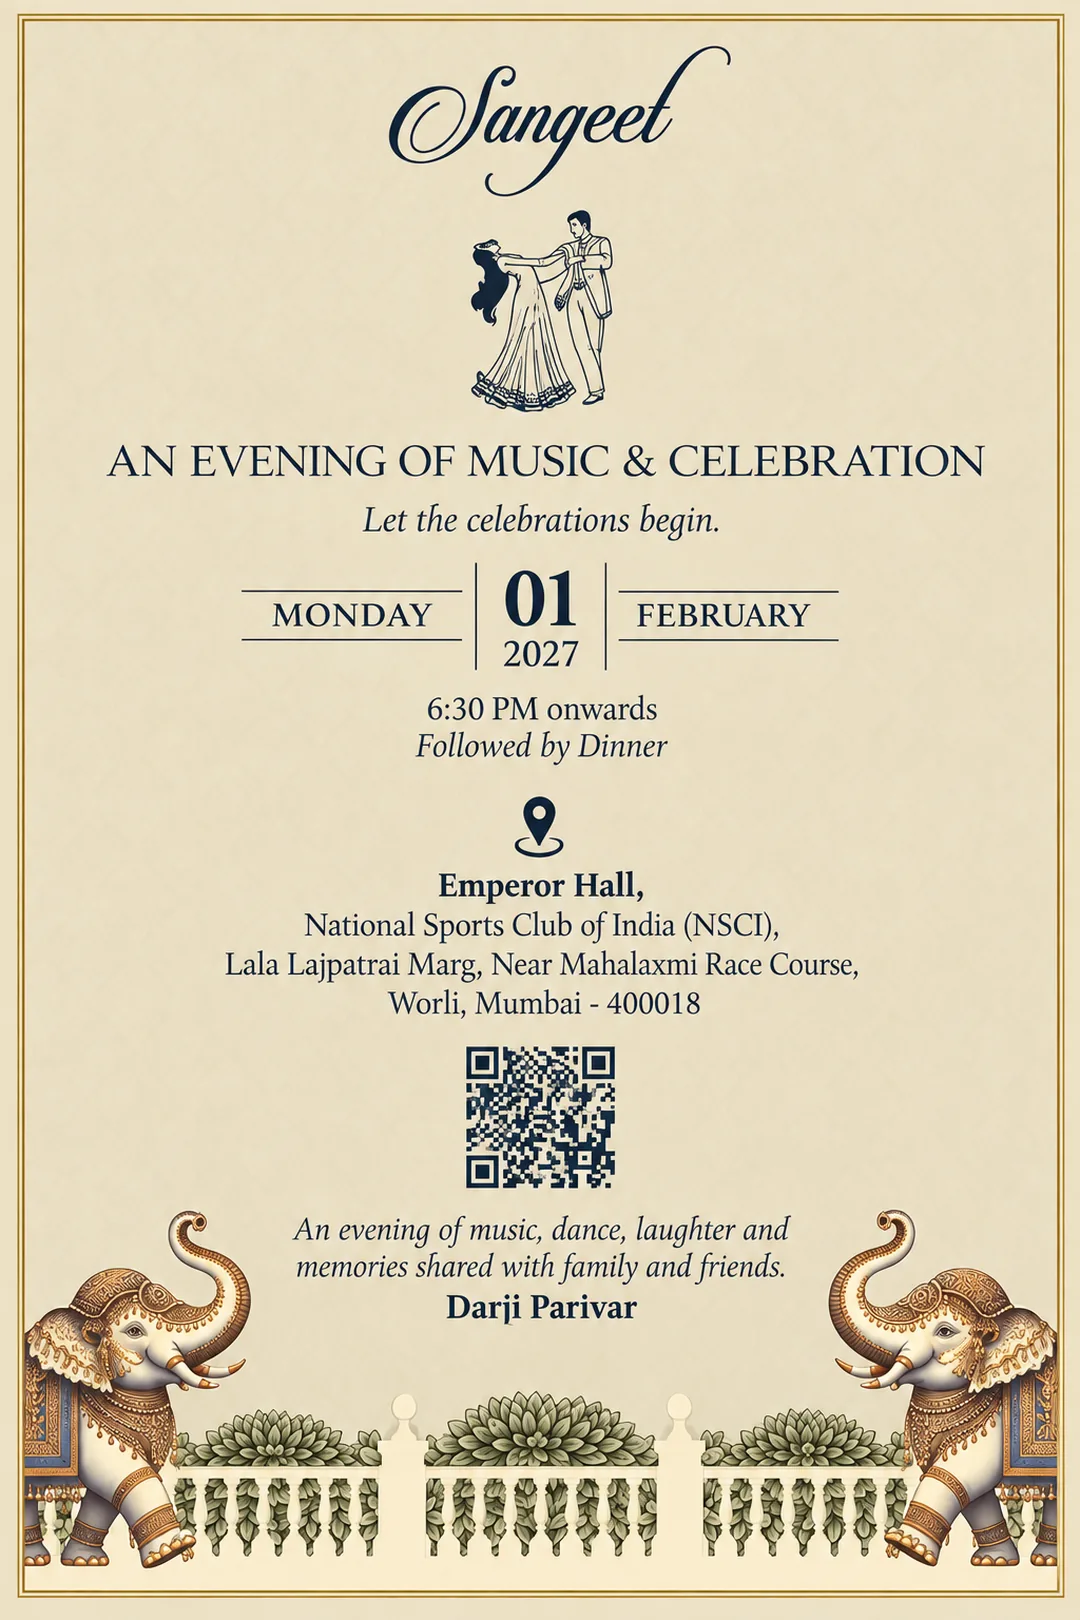
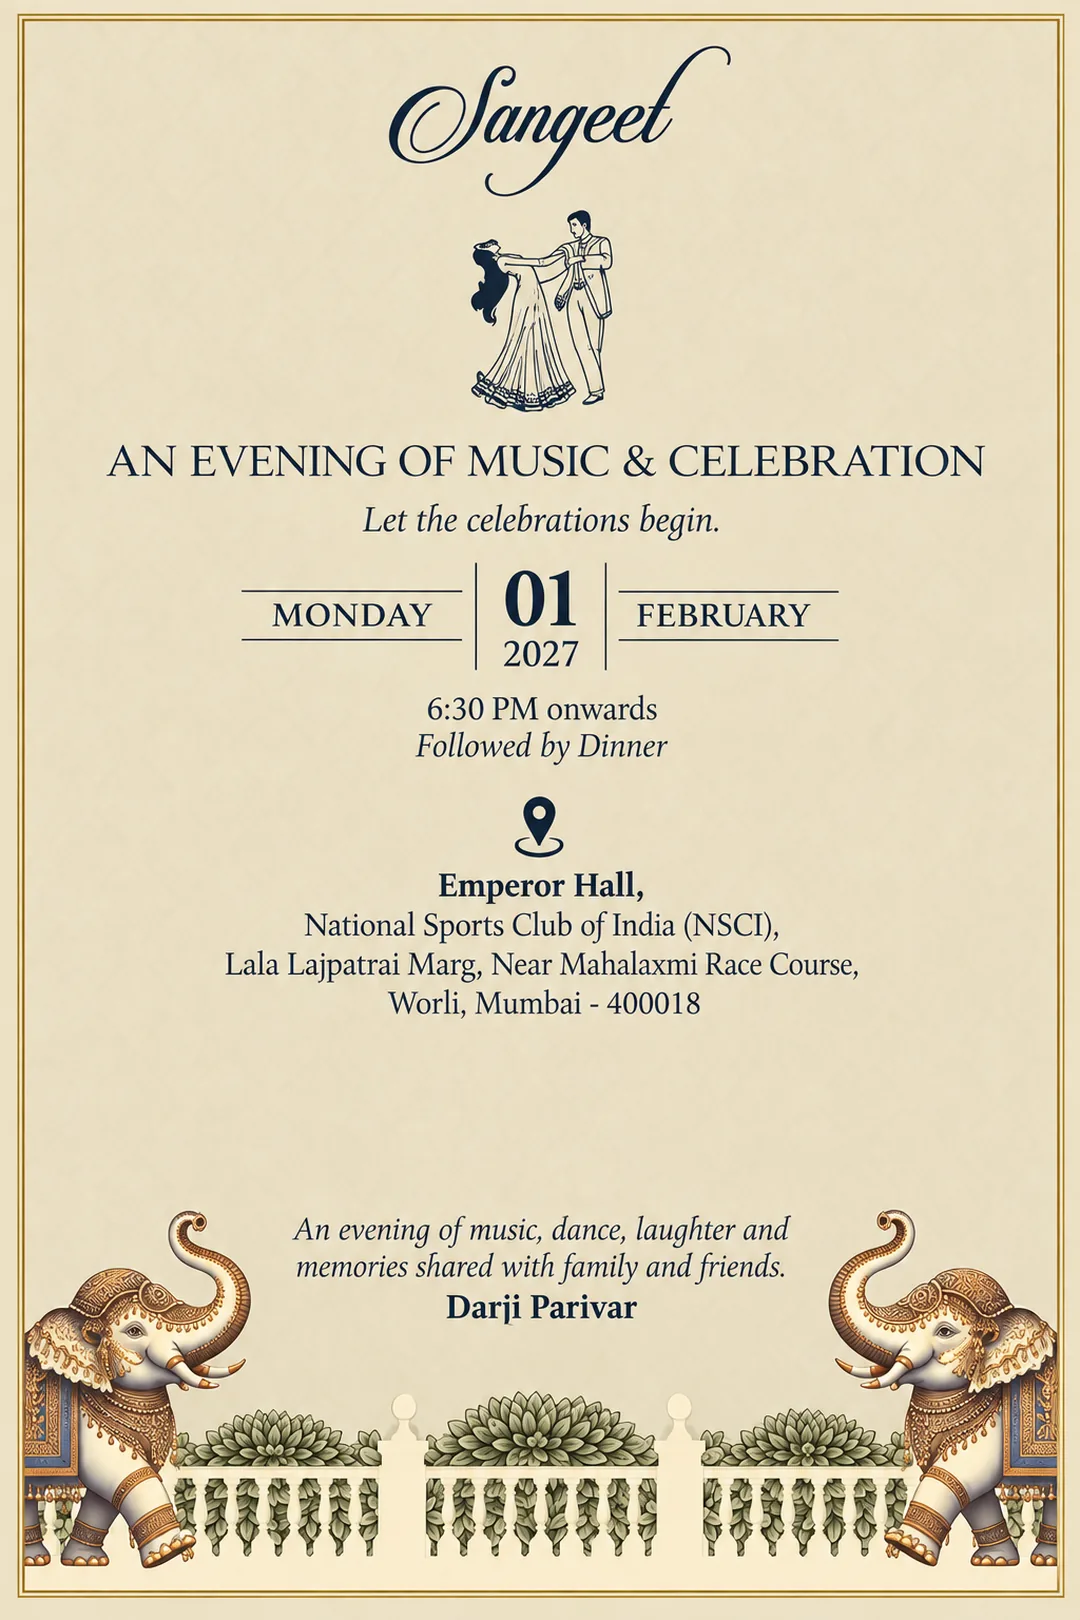
Add files via upload

Changed region(s): [[0.4278, 0.6481, 0.5806, 0.7407]]

diff --git a/index.html b/index.html
@@ -45,13 +45,9 @@
     background:linear-gradient(180deg,#efe6d2,#e4d8bd);transition:opacity .9s ease, visibility .9s}
   #envelope.open{opacity:0;visibility:hidden}
   .env-inner{text-align:center;padding:28px;max-width:min(88vw,420px)}
-  .seal{width:104px;height:104px;margin:0 auto 26px;border-radius:50%;
-    background:radial-gradient(circle at 35% 30%,#e8c47a,#a67c2e 70%);
-    display:flex;align-items:center;justify-content:center;gap:4px;white-space:nowrap;
-    color:#fff8e6;font-size:27px;font-weight:600;letter-spacing:.02em;
-    box-shadow:0 10px 30px rgba(120,86,24,.35), inset 0 0 0 3px rgba(255,248,230,.32);
-    animation:breathe 3s ease-in-out infinite}
-  .seal span{font-size:17px;opacity:.85}
+  .emblem{width:190px;height:190px;display:block;margin:0 auto 22px;
+    filter:drop-shadow(0 10px 26px rgba(120,86,24,.22));
+    animation:breathe 4.5s ease-in-out infinite}
   @keyframes breathe{0%,100%{transform:scale(1)}50%{transform:scale(1.045)}}
   .env-to{font-size:14px;letter-spacing:.28em;text-transform:uppercase;color:var(--muted);margin-bottom:9px}
   .env-name{font-size:29px;font-weight:600;color:var(--gold);line-height:1.25;margin-bottom:22px}
@@ -86,7 +82,6 @@
     background:linear-gradient(90deg,transparent,var(--gold-l),transparent)}
   .panel::before{top:16px}
   .panel::after{bottom:16px}
-  .om{font-size:26px;color:var(--gold);margin-bottom:16px;opacity:.9}
   .to{font-size:12.5px;letter-spacing:.3em;text-transform:uppercase;color:var(--muted);margin-bottom:14px}
   .gname{
     font-size:clamp(27px,7.4vw,38px);font-weight:600;line-height:1.28;color:var(--gold);
@@ -97,7 +92,6 @@
   .gname.shine{animation:shine 2.1s ease-out .35s 1 both}
   @keyframes shine{from{background-position:170% 0}to{background-position:-30% 0}}
   .panel p{margin:18px auto 0;max-width:30ch;font-size:17.5px;line-height:1.62;color:#4a4234}
-  .events-line{margin-top:20px;font-size:13px;letter-spacing:.16em;text-transform:uppercase;color:var(--muted)}
 
   /* ── event heading strip ─────────────────── */
   .strip{text-align:center;margin:26px 0 12px;opacity:0;transform:translateY(14px);
@@ -109,6 +103,16 @@
     background:var(--gold-l)}
   .strip span::before{right:100%}
   .strip span::after{left:100%}
+
+  /* ── map link ────────────────────────────── */
+  .maprow{text-align:center;margin:-4px 0 20px;opacity:0;transform:translateY(10px);
+    transition:opacity .7s ease,transform .7s ease}
+  .maprow.in{opacity:1;transform:none}
+  .maplink{display:inline-flex;align-items:center;gap:8px;text-decoration:none;
+    padding:11px 22px;border:1.2px solid var(--gold-l);border-radius:999px;
+    background:#fbf7ec;color:var(--gold);font-size:14px;letter-spacing:.09em}
+  .maplink:active{background:#f4ecdb}
+  .maplink svg{opacity:.85}
 
   /* ── footer ──────────────────────────────── */
   footer{text-align:center;padding:22px 18px 46px;color:var(--muted);font-size:15px;line-height:1.7}
@@ -146,8 +150,8 @@
 
 <div id="envelope" hidden>
   <div class="env-inner">
-    <div class="seal">M<span>&amp;</span>R</div>
-    <div class="env-to">An invitation for</div>
+    <svg class="emblem" viewBox="0 0 200 200" xmlns="http://www.w3.org/2000/svg" aria-hidden="true"><defs><radialGradient id="disc" cx="38%" cy="30%"><stop offset="0%" stop-color="#e6c88a"/><stop offset="55%" stop-color="#c39a45"/><stop offset="100%" stop-color="#9d7328"/></radialGradient></defs><g fill="none" stroke="#b8912f" stroke-width="1"><path d="M162.0 100.0 Q177.0 107.0 192.0 100.0 Q177.0 93.0 162.0 100.0Z M159.9 116.0 Q172.6 126.7 188.9 123.8 Q176.2 113.2 159.9 116.0Z M153.7 131.0 Q163.2 144.6 179.7 146.0 Q170.2 132.4 153.7 131.0Z M143.8 143.8 Q149.5 159.4 165.1 165.1 Q159.4 149.5 143.8 143.8Z M131.0 153.7 Q132.4 170.2 146.0 179.7 Q144.6 163.2 131.0 153.7Z M116.0 159.9 Q113.2 176.2 123.8 188.9 Q126.7 172.6 116.0 159.9Z M100.0 162.0 Q93.0 177.0 100.0 192.0 Q107.0 177.0 100.0 162.0Z M84.0 159.9 Q73.3 172.6 76.2 188.9 Q86.8 176.2 84.0 159.9Z M69.0 153.7 Q55.4 163.2 54.0 179.7 Q67.6 170.2 69.0 153.7Z M56.2 143.8 Q40.6 149.5 34.9 165.1 Q50.5 159.4 56.2 143.8Z M46.3 131.0 Q29.8 132.4 20.3 146.0 Q36.8 144.6 46.3 131.0Z M40.1 116.0 Q23.8 113.2 11.1 123.8 Q27.4 126.7 40.1 116.0Z M38.0 100.0 Q23.0 93.0 8.0 100.0 Q23.0 107.0 38.0 100.0Z M40.1 84.0 Q27.4 73.3 11.1 76.2 Q23.8 86.8 40.1 84.0Z M46.3 69.0 Q36.8 55.4 20.3 54.0 Q29.8 67.6 46.3 69.0Z M56.2 56.2 Q50.5 40.6 34.9 34.9 Q40.6 50.5 56.2 56.2Z M69.0 46.3 Q67.6 29.8 54.0 20.3 Q55.4 36.8 69.0 46.3Z M84.0 40.1 Q86.8 23.8 76.2 11.1 Q73.3 27.4 84.0 40.1Z M100.0 38.0 Q107.0 23.0 100.0 8.0 Q93.0 23.0 100.0 38.0Z M116.0 40.1 Q126.7 27.4 123.8 11.1 Q113.2 23.8 116.0 40.1Z M131.0 46.3 Q144.6 36.8 146.0 20.3 Q132.4 29.8 131.0 46.3Z M143.8 56.2 Q159.4 50.5 165.1 34.9 Q149.5 40.6 143.8 56.2Z M153.7 69.0 Q170.2 67.6 179.7 54.0 Q163.2 55.4 153.7 69.0Z M159.9 84.0 Q176.2 86.8 188.9 76.2 Q172.6 73.3 159.9 84.0Z" opacity=".55"/><path d="M166.0 100.0 Q172.4 119.4 157.2 133.0 Q153.0 153.0 133.0 157.2 Q119.4 172.4 100.0 166.0 Q80.6 172.4 67.0 157.2 Q47.0 153.0 42.8 133.0 Q27.6 119.4 34.0 100.0 Q27.6 80.6 42.8 67.0 Q47.0 47.0 67.0 42.8 Q80.6 27.6 100.0 34.0 Q119.4 27.6 133.0 42.8 Q153.0 47.0 157.2 67.0 Q172.4 80.6 166.0 100.0Z" stroke-width="1.3" opacity=".85"/><circle cx="100" cy="100" r="60" stroke-width="1.1" opacity=".7"/><circle cx="100" cy="100" r="55.5" stroke-width="2" stroke-dasharray="0.6 5.2" stroke-linecap="round" opacity=".9"/></g><circle cx="100" cy="100" r="50" fill="url(#disc)"/><circle cx="100" cy="100" r="44.5" fill="none" stroke="#fff6e2" stroke-width=".9" opacity=".45"/><g fill="#fff8ea" text-anchor="middle" font-family="Cormorant Garamond, Georgia, serif"><text x="100" y="89" font-size="13.5" letter-spacing="2.4" opacity=".8">MIHIR</text><text x="100" y="106" font-size="9.5" letter-spacing="2.2" opacity=".6">WEDS</text><text x="100" y="125" font-size="13.5" letter-spacing="2.4" opacity=".8">RACHEL</text></g></svg>
+    <div class="env-to">Dear</div>
     <div class="env-name" id="envName">&nbsp;</div>
     <button class="env-open" onclick="openInvite()">Open</button>
   </div>
@@ -162,9 +166,11 @@ var EVENTS = [
   { key:'gaam',    img:'assets/gaam.webp',    label:'Gaam Function', short:'Gaam Function',
     when:'Tuesday 26 January' },
   { key:'sangeet', img:'assets/sangeet.webp', label:'Sangeet',       short:'Sangeet',
-    when:'Sunday 31 January' },
+    when:'Monday 1 February',
+    map:'https://maps.app.goo.gl/G1PZ4qjmHoUnWVVM6' },
   { key:'wedding', img:'assets/wedding.webp', label:'The Wedding',   short:'Wedding',
-    when:'Tuesday 2 February' }
+    when:'Tuesday 2 February',
+    map:'https://maps.app.goo.gl/1N7ugEeePVZLiSNXA' }
 ];
 
 var GUESTS = null, G = null;
@@ -234,11 +240,9 @@ function build(){
 
   // the personal panel
   h += '<div class="panel" data-anim>' +
-         '<div class="om">ॐ</div>' +
          (G.n ? '<div class="to">Dear</div><div class="gname" id="gname">' + esc(G.n) + '</div>' : '') +
          '<p>With love and warm regards, we invite you to share in ' +
          'the celebrations as our families come together.</p>' +
-         (G.e && G.e.length ? '<div class="events-line">' + eventWords() + '</div>' : '') +
        '</div>';
 
   h += card('assets/names.webp', 'Manisha & Arvind Darji invite you');
@@ -247,13 +251,19 @@ function build(){
   mine.forEach(function(e){
     h += '<div class="strip" data-anim><span>' + e.when + '</span></div>';
     h += card(e.img, e.label);
+    if (e.map){
+      h += '<div class="maprow" data-anim>' +
+             '<a class="maplink" href="' + e.map + '" target="_blank" rel="noopener">' +
+             '<svg viewBox="0 0 24 24" width="15" height="15" fill="currentColor" aria-hidden="true" style="flex:none"><path d="M12 2a7 7 0 0 0-7 7c0 5.1 6.2 12.3 6.5 12.6a.7.7 0 0 0 1 0C12.8 21.3 19 14.1 19 9a7 7 0 0 0-7-7Zm0 9.6A2.6 2.6 0 1 1 14.6 9 2.6 2.6 0 0 1 12 11.6Z"/></svg> Open location in Maps</a>' +
+           '</div>';
+    }
   });
 
   h += card('assets/family.webp', 'With the blessings of our family');
 
   h += '<footer>' +
          '<div class="names">Mihir &amp; Rachel</div>' +
-         'We look forward to celebrating with you.' +
+         'Manisha, Arvind, and Darji Family look forward to celebrating with you.' +
          (mine.length ? '<br><a class="add" id="calBtn" href="#">Add to calendar</a>' : '') +
        '</footer>';
 
@@ -267,14 +277,6 @@ function card(src, alt){
     '<img loading="lazy" src="' + src + '" alt="' + esc(alt) + '" ' +
     'onload="this.classList.add(\'ready\')">' +
   '</div>';
-}
-
-function eventWords(){
-  var names = EVENTS.filter(function(e){ return G.e.indexOf(e.key) > -1; })
-                    .map(function(e){ return e.short || e.label; });
-  if (names.length === 1) return names[0];
-  if (names.length === 2) return names.join(' &amp; ');
-  return names.slice(0, -1).join(' · ') + ' · ' + names[names.length - 1];
 }
 
 function esc(s){
@@ -339,8 +341,8 @@ function preload(){
 var CAL = {
   gaam:    { t:'Gaam Function · Mihir weds Rachel', s:'20270126T083000Z', e:'20270126T160000Z',
              l:'Mamta Bunglow, Gaam Liloi, Ta. Modasa, Arvalli, Gujarat 383316' },
-  sangeet: { t:'Sangeet · Mihir weds Rachel',       s:'20270131T123000Z', e:'20270131T180000Z',
-             l:'Mumbai' },
+  sangeet: { t:'Sangeet · Mihir weds Rachel',       s:'20270201T130000Z', e:'20270201T183000Z',
+             l:'Emperor Hall, National Sports Club of India, Lala Lajpatrai Marg, Worli, Mumbai 400018' },
   wedding: { t:'Wedding · Mihir weds Rachel',       s:'20270202T093000Z', e:'20270202T170000Z',
              l:'PVM Gymkhana Colaba, Maharishi Karve Road, Nariman Point, Mumbai 400021' }
 };

diff --git a/README.md b/README.md
@@ -23,7 +23,7 @@ invite/
 4. Wait about a minute. Your invite is at:
 
    ```
-   https://YOURNAME.github.io/invite/
+   https://mihirdarji2.github.io/invite/
    ```
 
 Opening it with no guest in the link shows a holding page, which is correct. To
@@ -36,7 +36,7 @@ In Apps Script, add **Invite.gs** as a new script file, then set the first line 
 your real address:
 
 ```js
-const INVITE_BASE = 'https://YOURNAME.github.io/invite';
+const INVITE_BASE = 'https://mihirdarji2.github.io/invite';
 ```
 
 Run these once, in order:
@@ -107,3 +107,12 @@ person needs their own from the **Invite Links** tab.
 **Changing the cards.** Replace the `.webp` file in `assets`, keeping the same
 filename, and regenerate the matching `-tiny.webp` blur placeholder. The names are
 `cover`, `names`, `gaam`, `sangeet`, `wedding`, `family`.
+
+**The QR codes are gone from the Sangeet and Wedding cards.** They were painted out
+of the source images and replaced with an "Open location in Maps" button under each
+card, which is easier to tap on a phone than pointing a second camera at a screen.
+The map links live in the `EVENTS` array near the top of `index.html`, one line each.
+
+**Event dates** also live in that `EVENTS` array. Sangeet is Monday 1 February, taken
+from the card itself. Change a date there and both the strip above the card and the
+calendar file update together.
